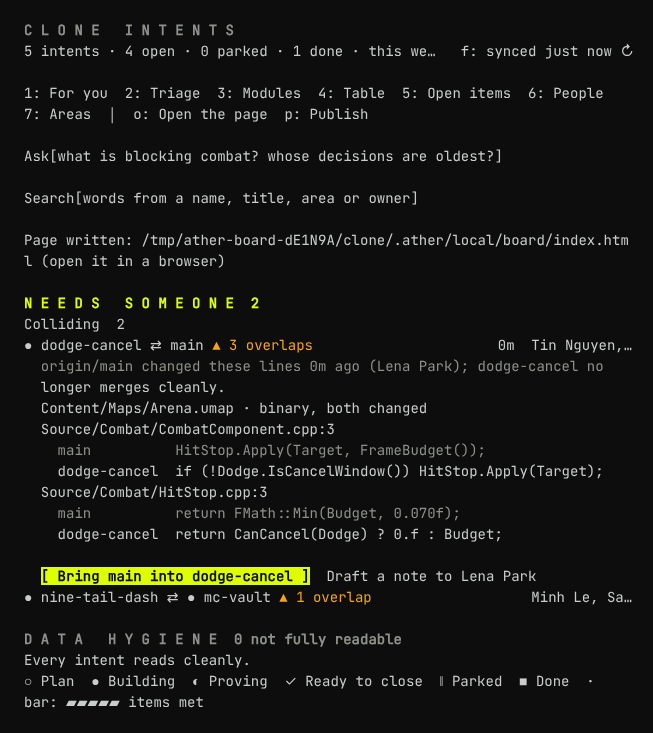
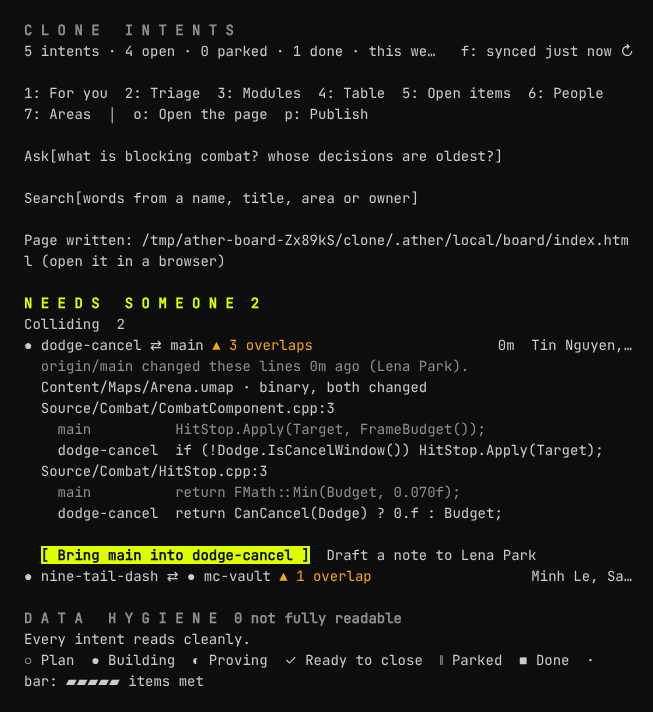
refactor: one home for a collision's words and place (thermo-nuclear round 1)
views.mjs owns overlapCount, collisionOwners, collisionFact, spotLabel and
withColliding (Colliding after the decisions, for Triage and For you alike);
the pane, the page and the prompts use them. isReason is the one predicate for
Triage and the ping action. The base's last author is read for base pairs only;
one complaintOf for git's failures; a check asked for while one runs follows it.

Claude-Session: https://claude.ai/code/session_01UueN8X5TN2255VZp3KssC3

diff --git a/ather-board/page/client.js b/ather-board/page/client.js
@@ -4,7 +4,7 @@
 // columns, and Pulse is the page's own chart. page.mjs writes views.mjs's exports above this script and
 // the board's data into #board-data. The look (view, filters, sort, group) lives in the address's #hash,
 // so a link opens the same cut.
-/* global graphOf, layoutGraph, STAGES, SORTS, SORT_KEYS, GROUPS, GROUP_KEYS, VIEW_LABELS, HIDES_DONE, DEFAULT_LOOK, pickLook, recordsFor, sectionsOf, pulse, summaryText, choices, ageText, miniBarSvg */
+/* global collisionFact, collisionOwners, overlapCount, spotLabel, graphOf, layoutGraph, STAGES, SORTS, SORT_KEYS, GROUPS, GROUP_KEYS, VIEW_LABELS, HIDES_DONE, DEFAULT_LOOK, pickLook, recordsFor, sectionsOf, pulse, summaryText, choices, ageText, miniBarSvg */
 ;(function () {
   'use strict'
   var DATA = JSON.parse(document.getElementById('board-data').textContent)
@@ -127,28 +127,24 @@
   // opened, each place with both sides' first changed line.
   function pairRow(collision) {
     var a = collision.a, b = collision.b
-    var isOpen = opened[collision.key]
     var other = a.key === '' ? esc(a.slug) : glyph(a.stage) + ' ' + esc(a.slug)
     var files = collision.files.map(function (f) { return f.split('/').pop() }).join(', ')
-    var owners = [b.owner, a.owner].filter(function (o, i, all) { return o && all.indexOf(o) === i }).join(', ')
     return (
       '<div class="row pair">' + toggle({ key: collision.key }) + glyph(b.stage) +
-      '<span class="main"><span class="head"><span class="slug">' + esc(b.slug) + ' <span class="versus-mark">⇄</span> ' + other + '</span><span class="warn">▲ ' + collision.count + (collision.count === 1 ? ' overlap' : ' overlaps') + '</span></span><span class="title">' + esc(files) + '</span></span>' +
+      '<span class="main"><span class="head"><span class="slug">' + esc(b.slug) + ' <span class="versus-mark">⇄</span> ' + other + '</span><span class="warn">' + esc(overlapCount(collision.count)) + '</span></span><span class="title">' + esc(files) + '</span></span>' +
       '<span class="progress"></span>' +
       '<span class="age" title="the base’s last change to these files">' + esc(collision.at ? ageText(collision.at, NOW) : '') + '</span>' +
-      '<span class="owner">' + esc(owners) + '</span>' +
-      '</button>' + (isOpen ? pairDetails(collision) : '') + '</div>'
+      '<span class="owner">' + esc(collisionOwners(collision)) + '</span>' +
+      '</button>' + (opened[collision.key] ? pairDetails(collision) : '') + '</div>'
     )
   }
   function pairDetails(collision) {
-    var a = collision.a, b = collision.b
-    var fact = a.key === '' ? 'origin/' + a.slug + ' changed these lines' + (collision.at ? ' ' + ageText(collision.at, NOW) + ' ago' : '') + (a.owner ? ' (' + a.owner + ')' : '') + '.' : 'Neither is merged yet: whichever merges second will conflict.'
     var spots = collision.spots.map(function (spot) {
-      if (spot.kind !== 'lines') return '<p class="spot">' + esc(spot.path) + ' <span class="kind">' + esc(spot.kind === 'binary' ? 'binary, both changed' : a.slug + ' ' + spot.ours + ' it, ' + b.slug + ' ' + spot.theirs + ' it') + '</span></p>'
-      return '<p class="spot">' + esc(spot.path) + '<span class="kind">:' + spot.line + '</span></p><div class="versus"><span>' + esc(a.slug) + '</span><code>' + esc(spot.ours || '(blank)') + '</code><span>' + esc(b.slug) + '</span><code>' + esc(spot.theirs || '(blank)') + '</code></div>'
+      var label = '<p class="spot">' + esc(spotLabel(collision, spot)) + '</p>'
+      return spot.kind !== 'lines' ? label : label + '<div class="versus"><span>' + esc(collision.a.slug) + '</span><code>' + esc(spot.ours || '(blank)') + '</code><span>' + esc(collision.b.slug) + '</span><code>' + esc(spot.theirs || '(blank)') + '</code></div>'
     }).join('')
     var more = collision.count > collision.spots.length ? '<p class="refs">and ' + (collision.count - collision.spots.length) + ' more</p>' : ''
-    return '<div class="details"><p class="refs">' + esc(fact) + '</p>' + spots + more + '</div>'
+    return '<div class="details"><p class="refs">' + esc(collisionFact(collision, NOW)) + '</p>' + spots + more + '</div>'
   }
   function pairGroup(part) {
     var body = part.pairs.length ? '<div class="panel">' + part.pairs.map(pairRow).join('') + '</div>' : '<p class="empty">' + esc(part.empty) + '</p>'

diff --git a/ather-board/page/board.css b/ather-board/page/board.css
@@ -84,7 +84,6 @@ main > :first-child { margin-top: 16px; }
 /* A collision opened: each place, then each side's first changed line on one grey ground, named by its side. */
 .versus-mark { color: var(--quiet); font-weight: 400; }
 .spot { margin: 10px 0 2px; font: 600 12.5px/1.4 ui-monospace, "Cascadia Mono", Consolas, Menlo, monospace; }
-.spot .kind { color: var(--quiet); font-weight: 400; }
 .versus { display: grid; grid-template-columns: max-content minmax(0, 1fr); overflow-x: auto; column-gap: 14px; row-gap: 2px; background: var(--well); border-radius: 4px; padding: 6px 10px; margin: 0 0 8px; font: 12.5px/1.45 ui-monospace, "Cascadia Mono", Consolas, Menlo, monospace; }
 .versus span { color: var(--quiet); }
 .versus code { color: var(--ink); font: inherit; white-space: pre; }

diff --git a/docs/intent/overlap-check/prompt.md b/docs/intent/overlap-check/prompt.md
@@ -1,6 +1,6 @@
 # Overlap check: open work that changes the same lines
 
-- Rev: 2
+- Rev: 3
 - Status: active
 - Area: ather-board
 - Owner: Tin Nguyen
@@ -37,11 +37,11 @@ Two people find out that their work collides only when one of them merges and th
   - Two open intents: the same command on their two branches, run only for pairs whose changed files (`git diff --name-only origin/<base>...origin/<branch>`, once per branch) share a path. Most pairs share none, so the cost stays near one diff per open branch.
   - The lines: for each conflicted path, read the written tree's file and take each conflict block's starting line (in the first side's file) and the first changed line on each side; a diff3 base section is skipped. A binary file (git's "Cannot merge binary files"), or one with no markers, is one place, "binary, both changed"; a file one side deleted is one place too. At most six places are kept per pair; the count says how many there are.
   - The names: each side is named by its intent's owner; the base side by its last author on those files, with that commit's time ("origin/main changed these lines 6m ago (Lena Park)"). Naming the intent that merged them is a follow-up.
-- D4 (old git): where `git merge-tree --write-tree` is not available (git before 2.38), the check reports nothing and the board's data hygiene shows one line, "git <version> cannot check overlaps (needs 2.38)". It never fails the board or blocks a hook.
+- D4 (old git, rev 3): where `git merge-tree --write-tree` is not available (git before 2.38), the check reports nothing and Colliding's place in Triage says "git <version> cannot check overlaps (needs 2.38)" (it is about overlaps, not an intent's files, so not Data hygiene). A git whose version cannot be read says nothing: the board's own reads would already fail. It never fails the board or blocks a hook.
 - D5 (the board's Triage): Colliding is a reason, second after waiting on a decision. One row per pair: `<glyph> a ⇄ <glyph> b ▲ N overlaps`, the files on the right in quiet type, then age and owners, the same columns as every Triage row. Pressing a row opens it in place:
   - one quiet fact ("hitstop-retune merged to main 6m ago", or "Neither is merged yet");
   - each spot as `path:line`, then each side's line on one grey ground, named by person;
-  - two actions handed to the session. On the person's own intent: "Bring <base> into <slug>", then "Draft a note to <owner>" (drafted, never sent). On two teammates' intents: "Ask <a> and <b> who goes first" (drafted), then "Open both intents".
+  - two actions handed to the session. On the person's own intent: "Bring <base> into <slug>", then "Draft a note to <owner>" (drafted, never sent). On two teammates' intents: "Ask <a> and <b> who goes first" (drafted), then "Where they stand" (each intent's state, read; rev 3: the board's own name for that action).
   - An intent sits under its worst reason, as today; its row names the others.
 - D6 (when it runs, rev 2): after each read of the board, in the background, one run at a time: the board draws without waiting, and the rows appear when the check is done (on S2, the first run's diffs and merges can take a while). Each branch's files are kept by `<base tip>...<tip>` and each merge by its two tips, in memory, so an unchanged pair is never merged twice and a run with nothing moved is one git call. The calls run one after another on purpose, beside the person's own git. Nothing is persisted.
 - D7 (the page): `/board open` and `/board publish` show the same group in Triage with the same rows; on the page, a row opens in place the same way (read-only: no actions there). The records carry their collisions, so the page's own copy of the views draws them with no new data shape.
@@ -71,4 +71,5 @@ Two people find out that their work collides only when one of them merges and th
 ## Changelog
 
 - rev 1 (2026-10-18): created.
+- rev 3 (2026-10-18): after the thermo-nuclear review, D4 and D5 say what was built (the old-git note in Colliding's place; "Where they stand").
 - rev 2 (2026-10-18): built. D2a (fetching the intents' branches), D3's binary and deleted places and the base side's naming, D6 (in the background, not on the fetch), D8 (warnings, For you), D9 (narrow panes).
